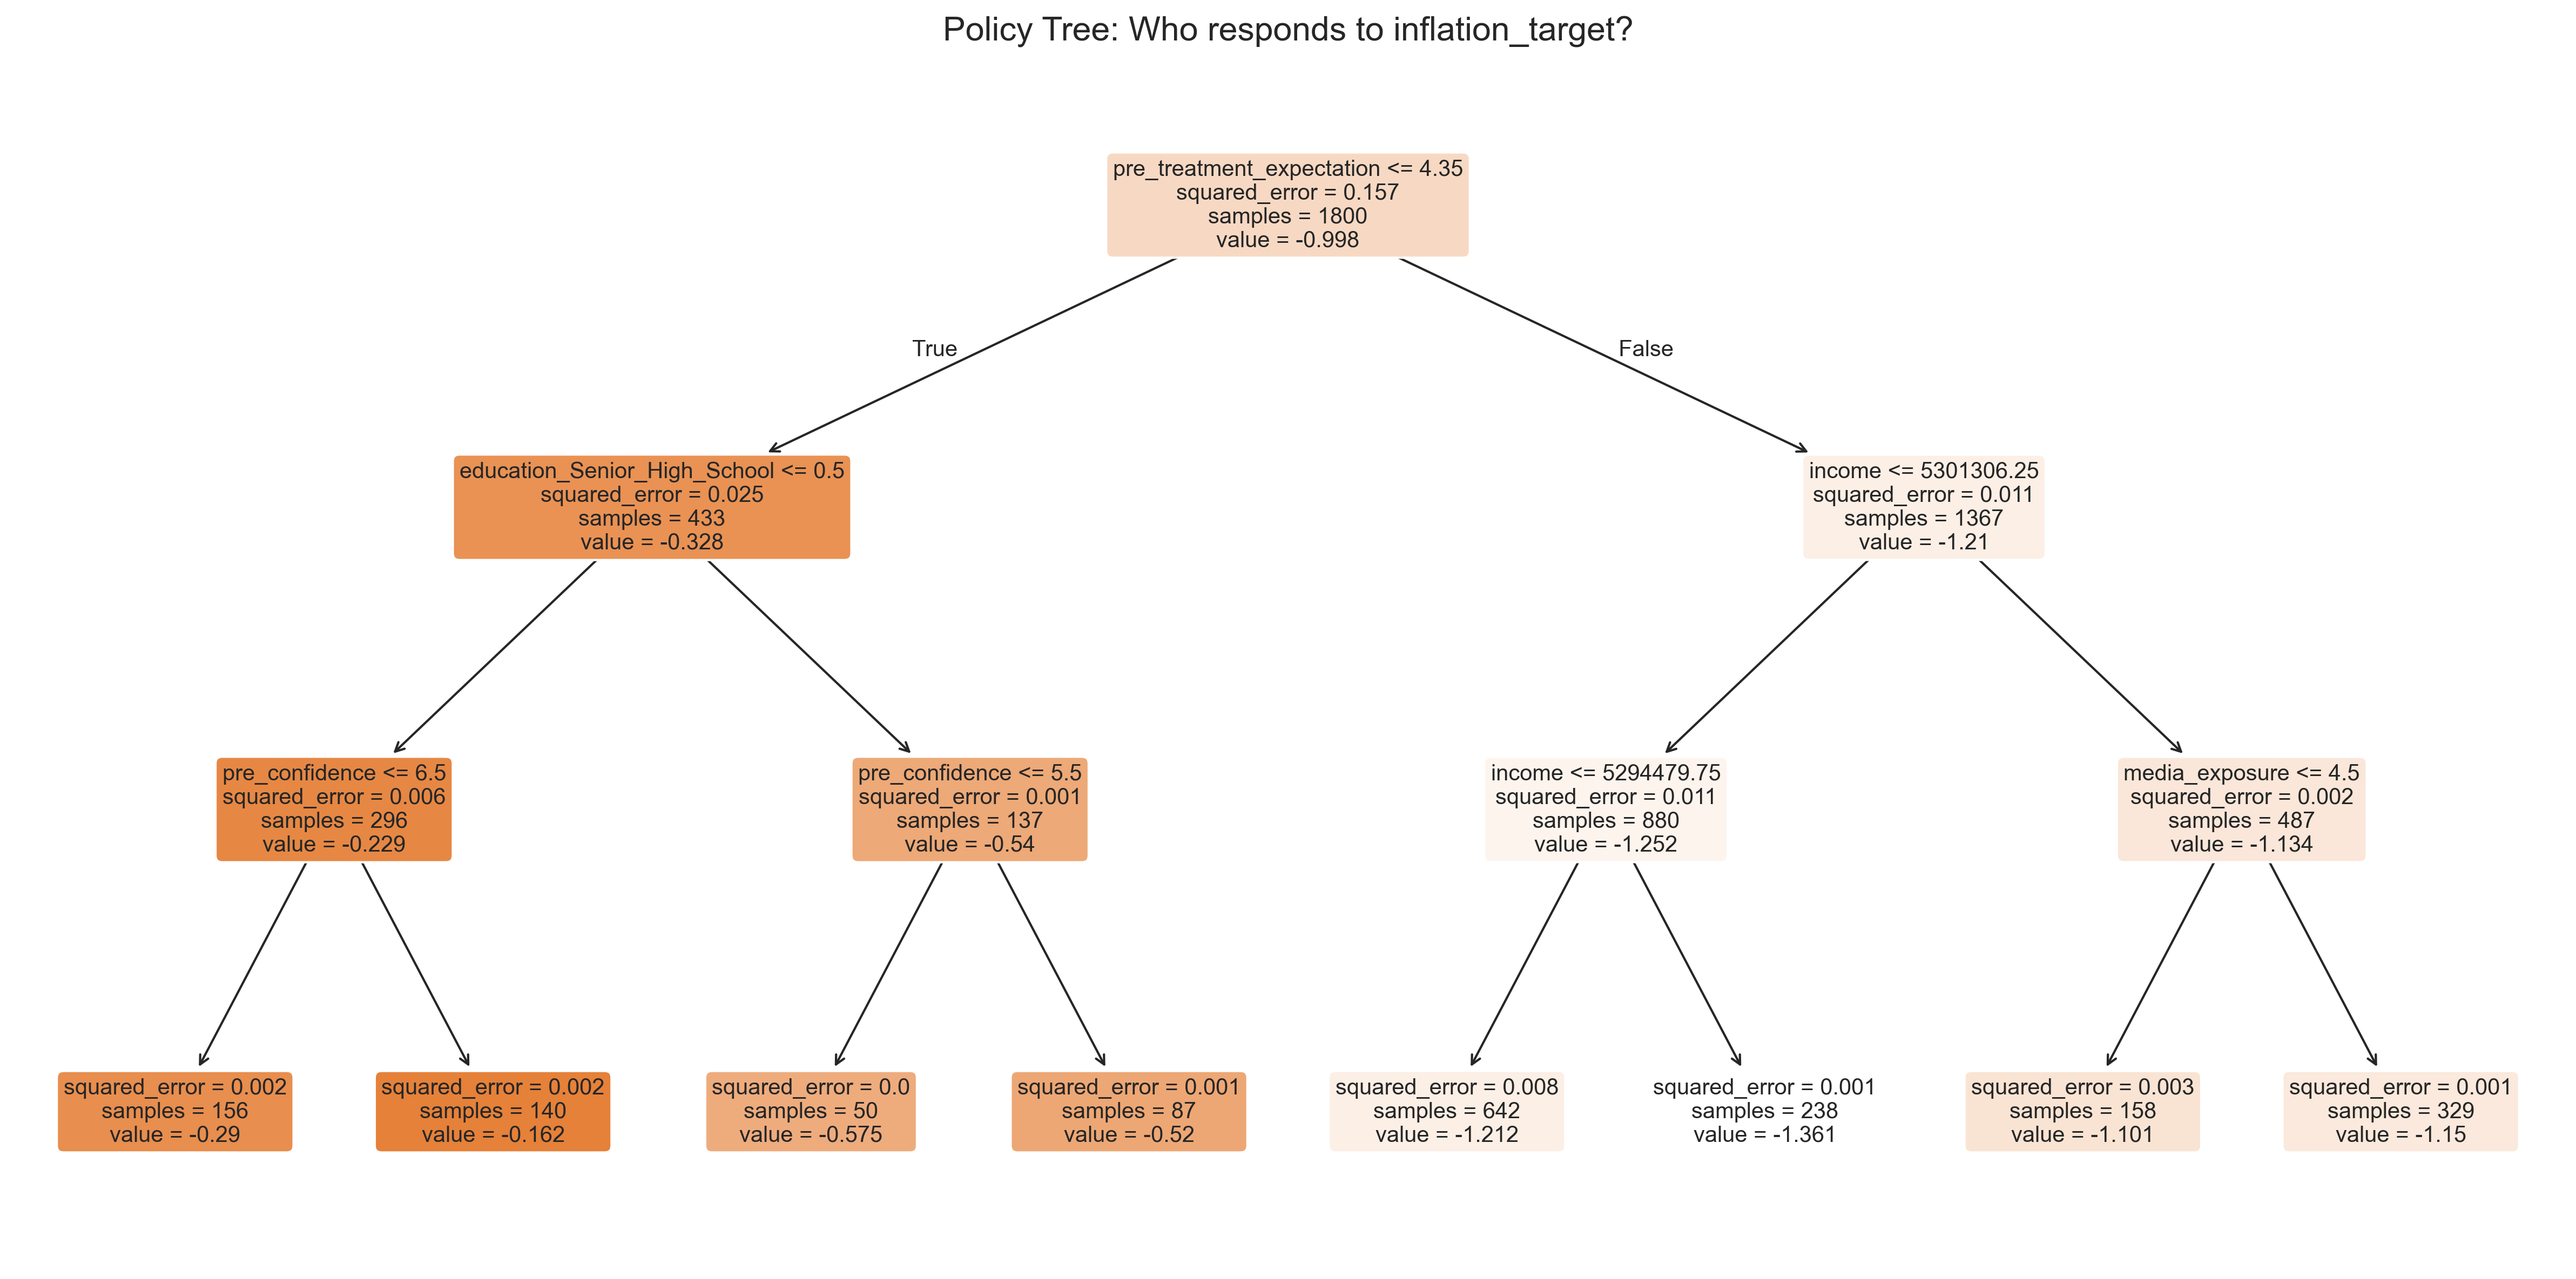
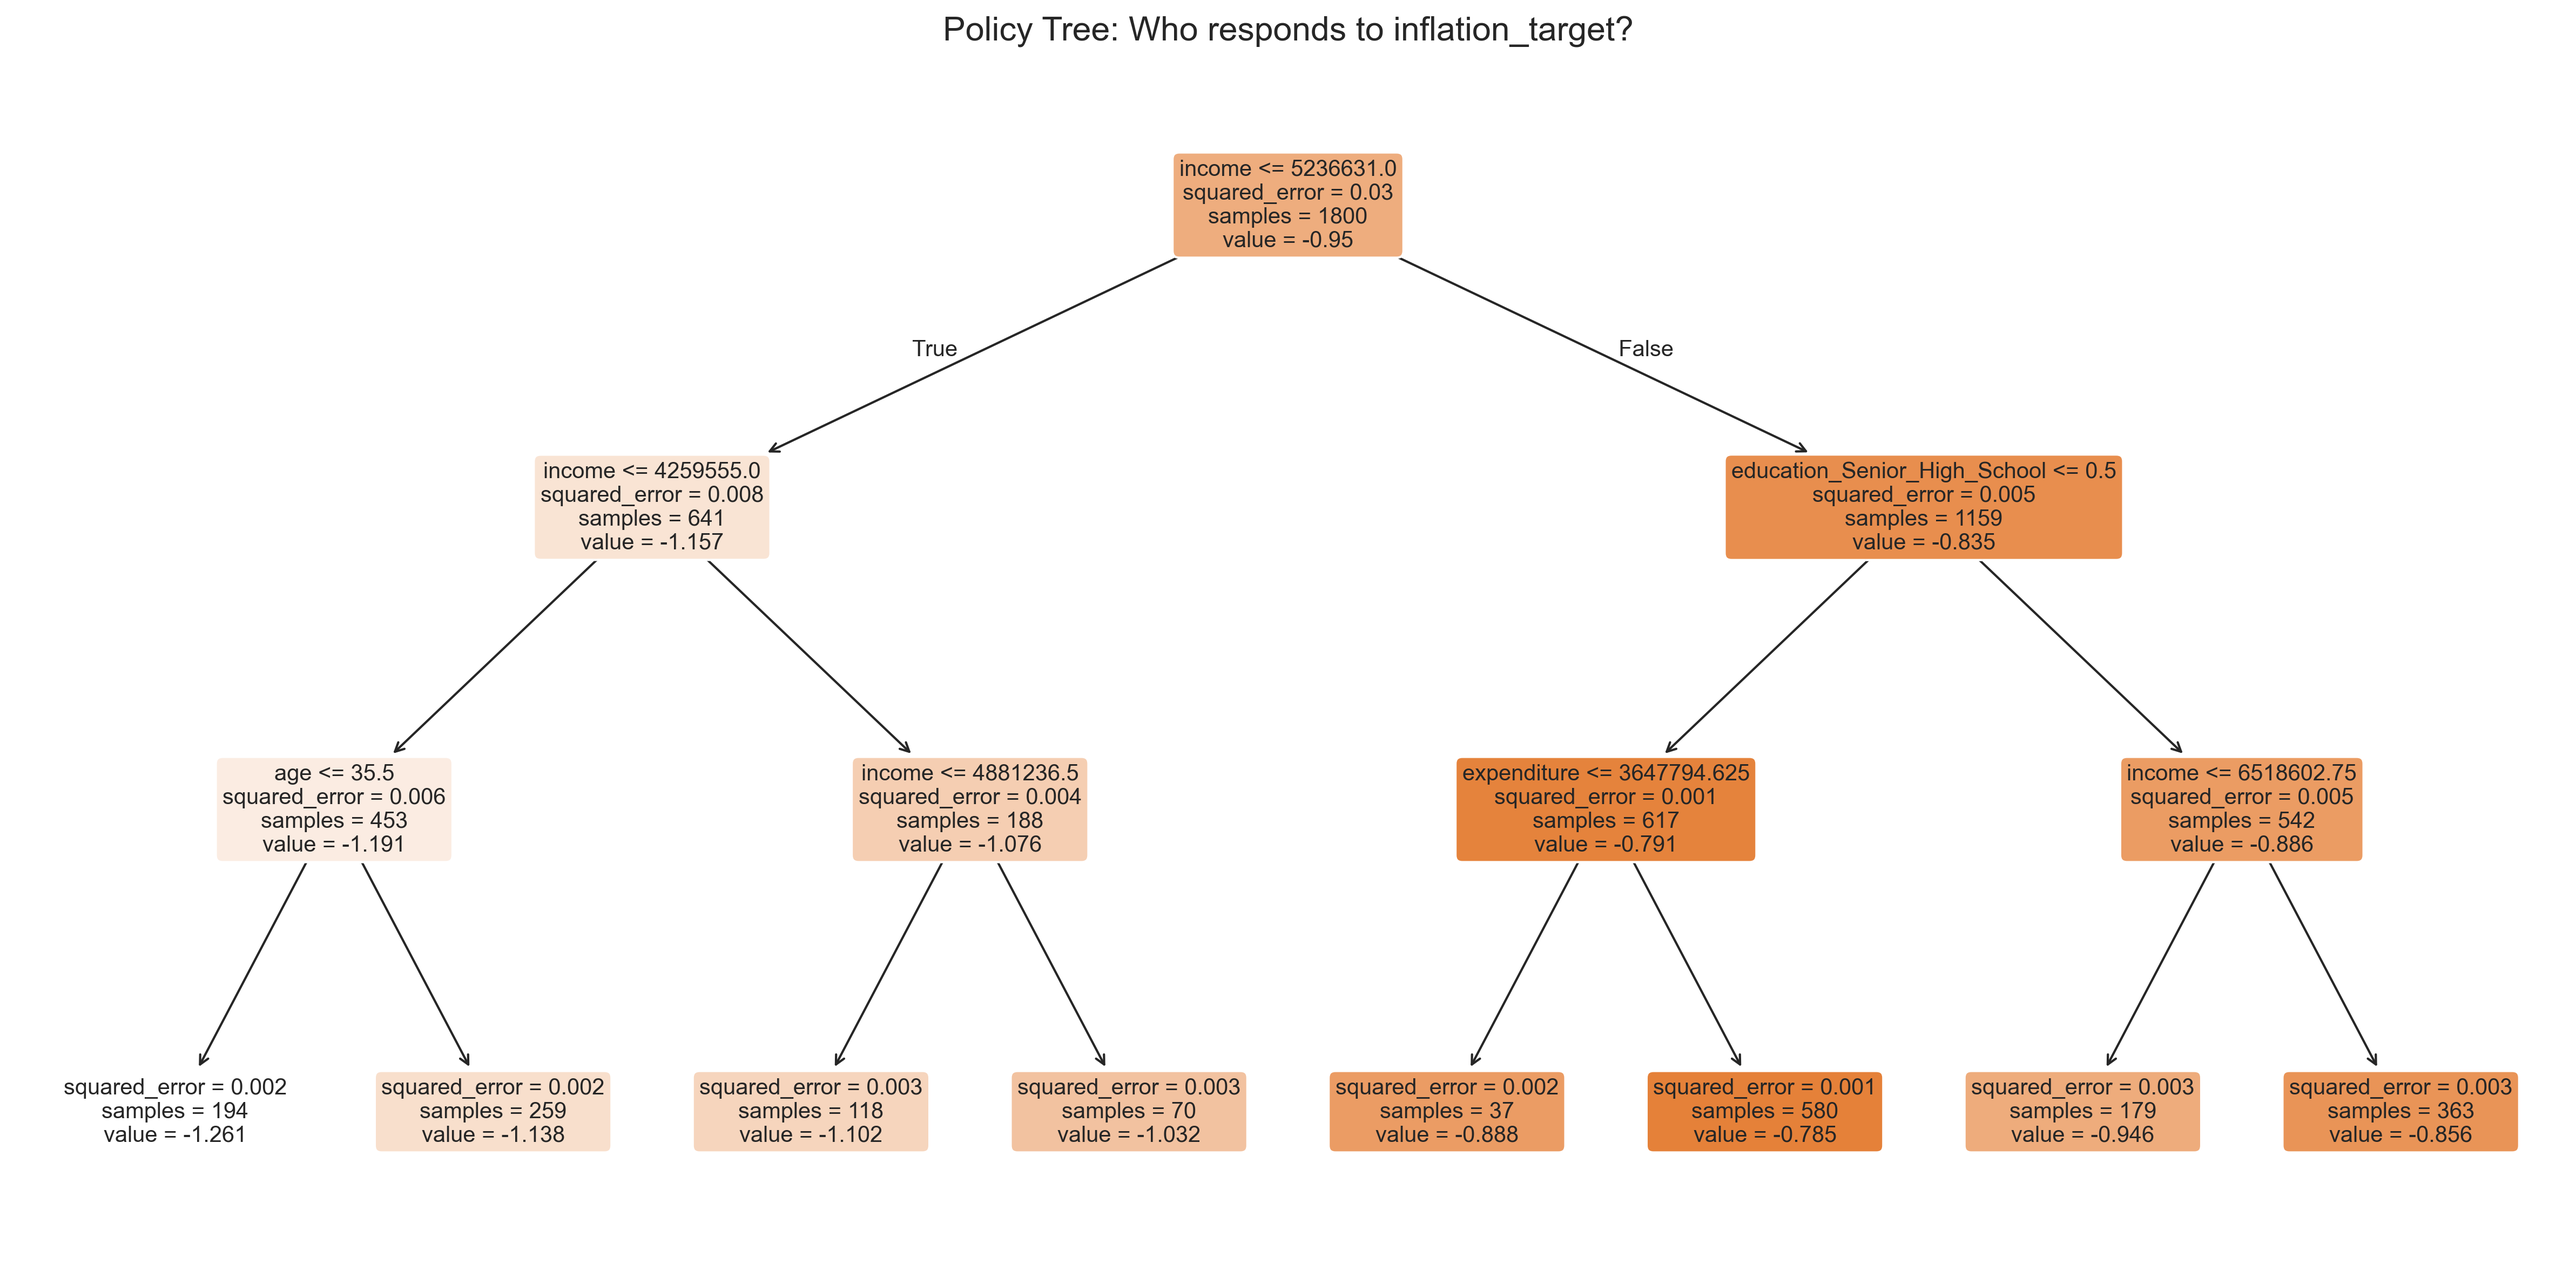
remove pre_treatment from regressor

diff --git a/econml_analysis.py b/econml_analysis.py
@@ -54,8 +54,7 @@ df = pd.concat([df, persona_df], axis=1)
 
 # Feature engineering
 feature_cols = ['age', 'income', 'financial_literacy', 'media_exposure', 
-                'risk_attitude', 'expenditure', 'pre_treatment_expectation', 
-                'pre_confidence']
+                'risk_attitude', 'expenditure']
 
 # Create dummies for categorical
 categorical_cols = ['gender', 'education', 'region', 'urban_rural']
